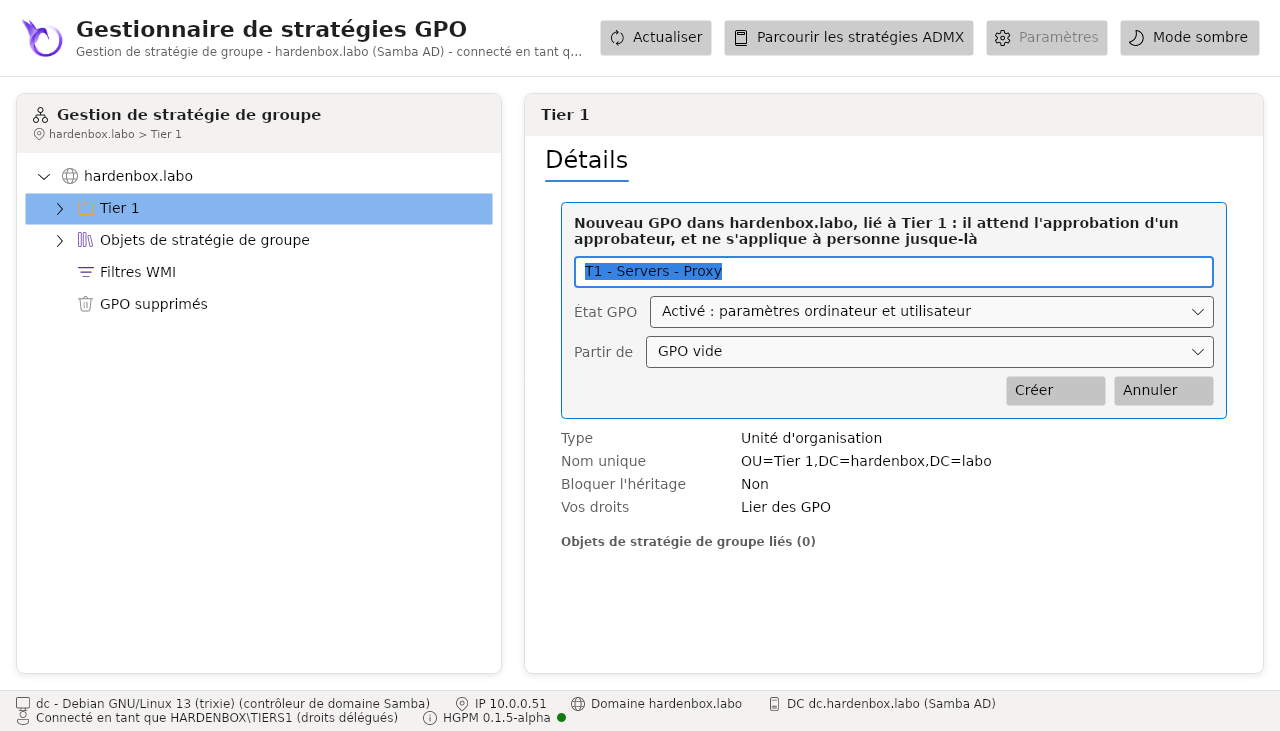
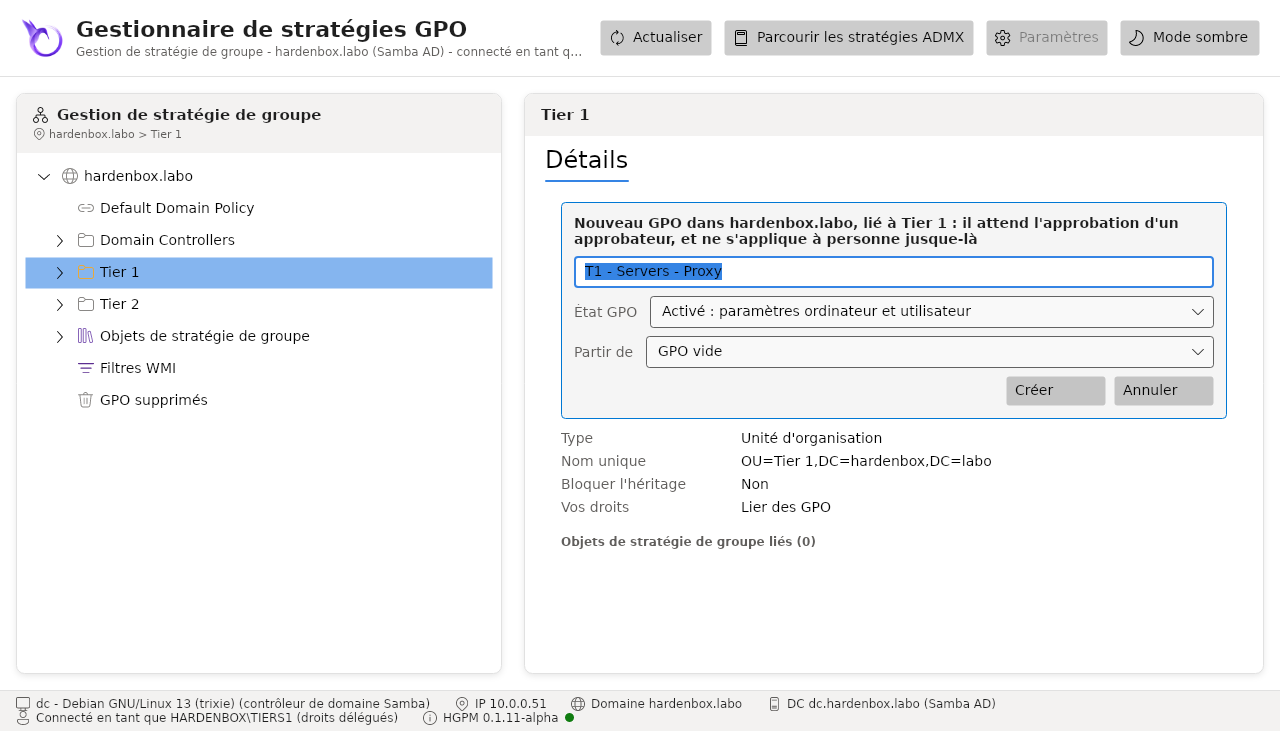
The screenshots of the approval workflow taken again in both languages: the header of the console without the Policy Analyzer button

diff --git a/docs/fr/features/console.md b/docs/fr/features/console.md
@@ -37,7 +37,7 @@ Une GPO a aussi deux onglets :
 
 ![L'onglet Settings](../assets/screenshots/03-gpo-settings.fr.png)
 
-**Refresh** (ou F5) relit le domaine, sur le même contrôleur de domaine avec le même compte, comme
+**Actualiser** (ou F5) relit le domaine, sur le même contrôleur de domaine avec le même compte, comme
 GPMC : les modifications des autres consoles et de GPMC apparaissent, l'arbre gardant ce qui est
 déplié et sélectionné. Sinon la console lit le domaine une fois ; une GPO modifiée depuis sa
 lecture n'est pas écrasée ([éditeur de stratégies](policy-editor.md)) : rafraîchissez, puis refaites

diff --git a/CHANGELOG.md b/CHANGELOG.md
@@ -1,5 +1,11 @@
 # HGPM Release History
 
+## Unreleased
+
+### Changed
+
+* The screenshots of the approval workflow (the console of a Tier 1 technician, its new GPO, its approval, the GPO approved) taken again, in English and French: the header of the console without the Policy Analyzer button
+
 ## 0.1.11 - alpha
 
 ### Added
